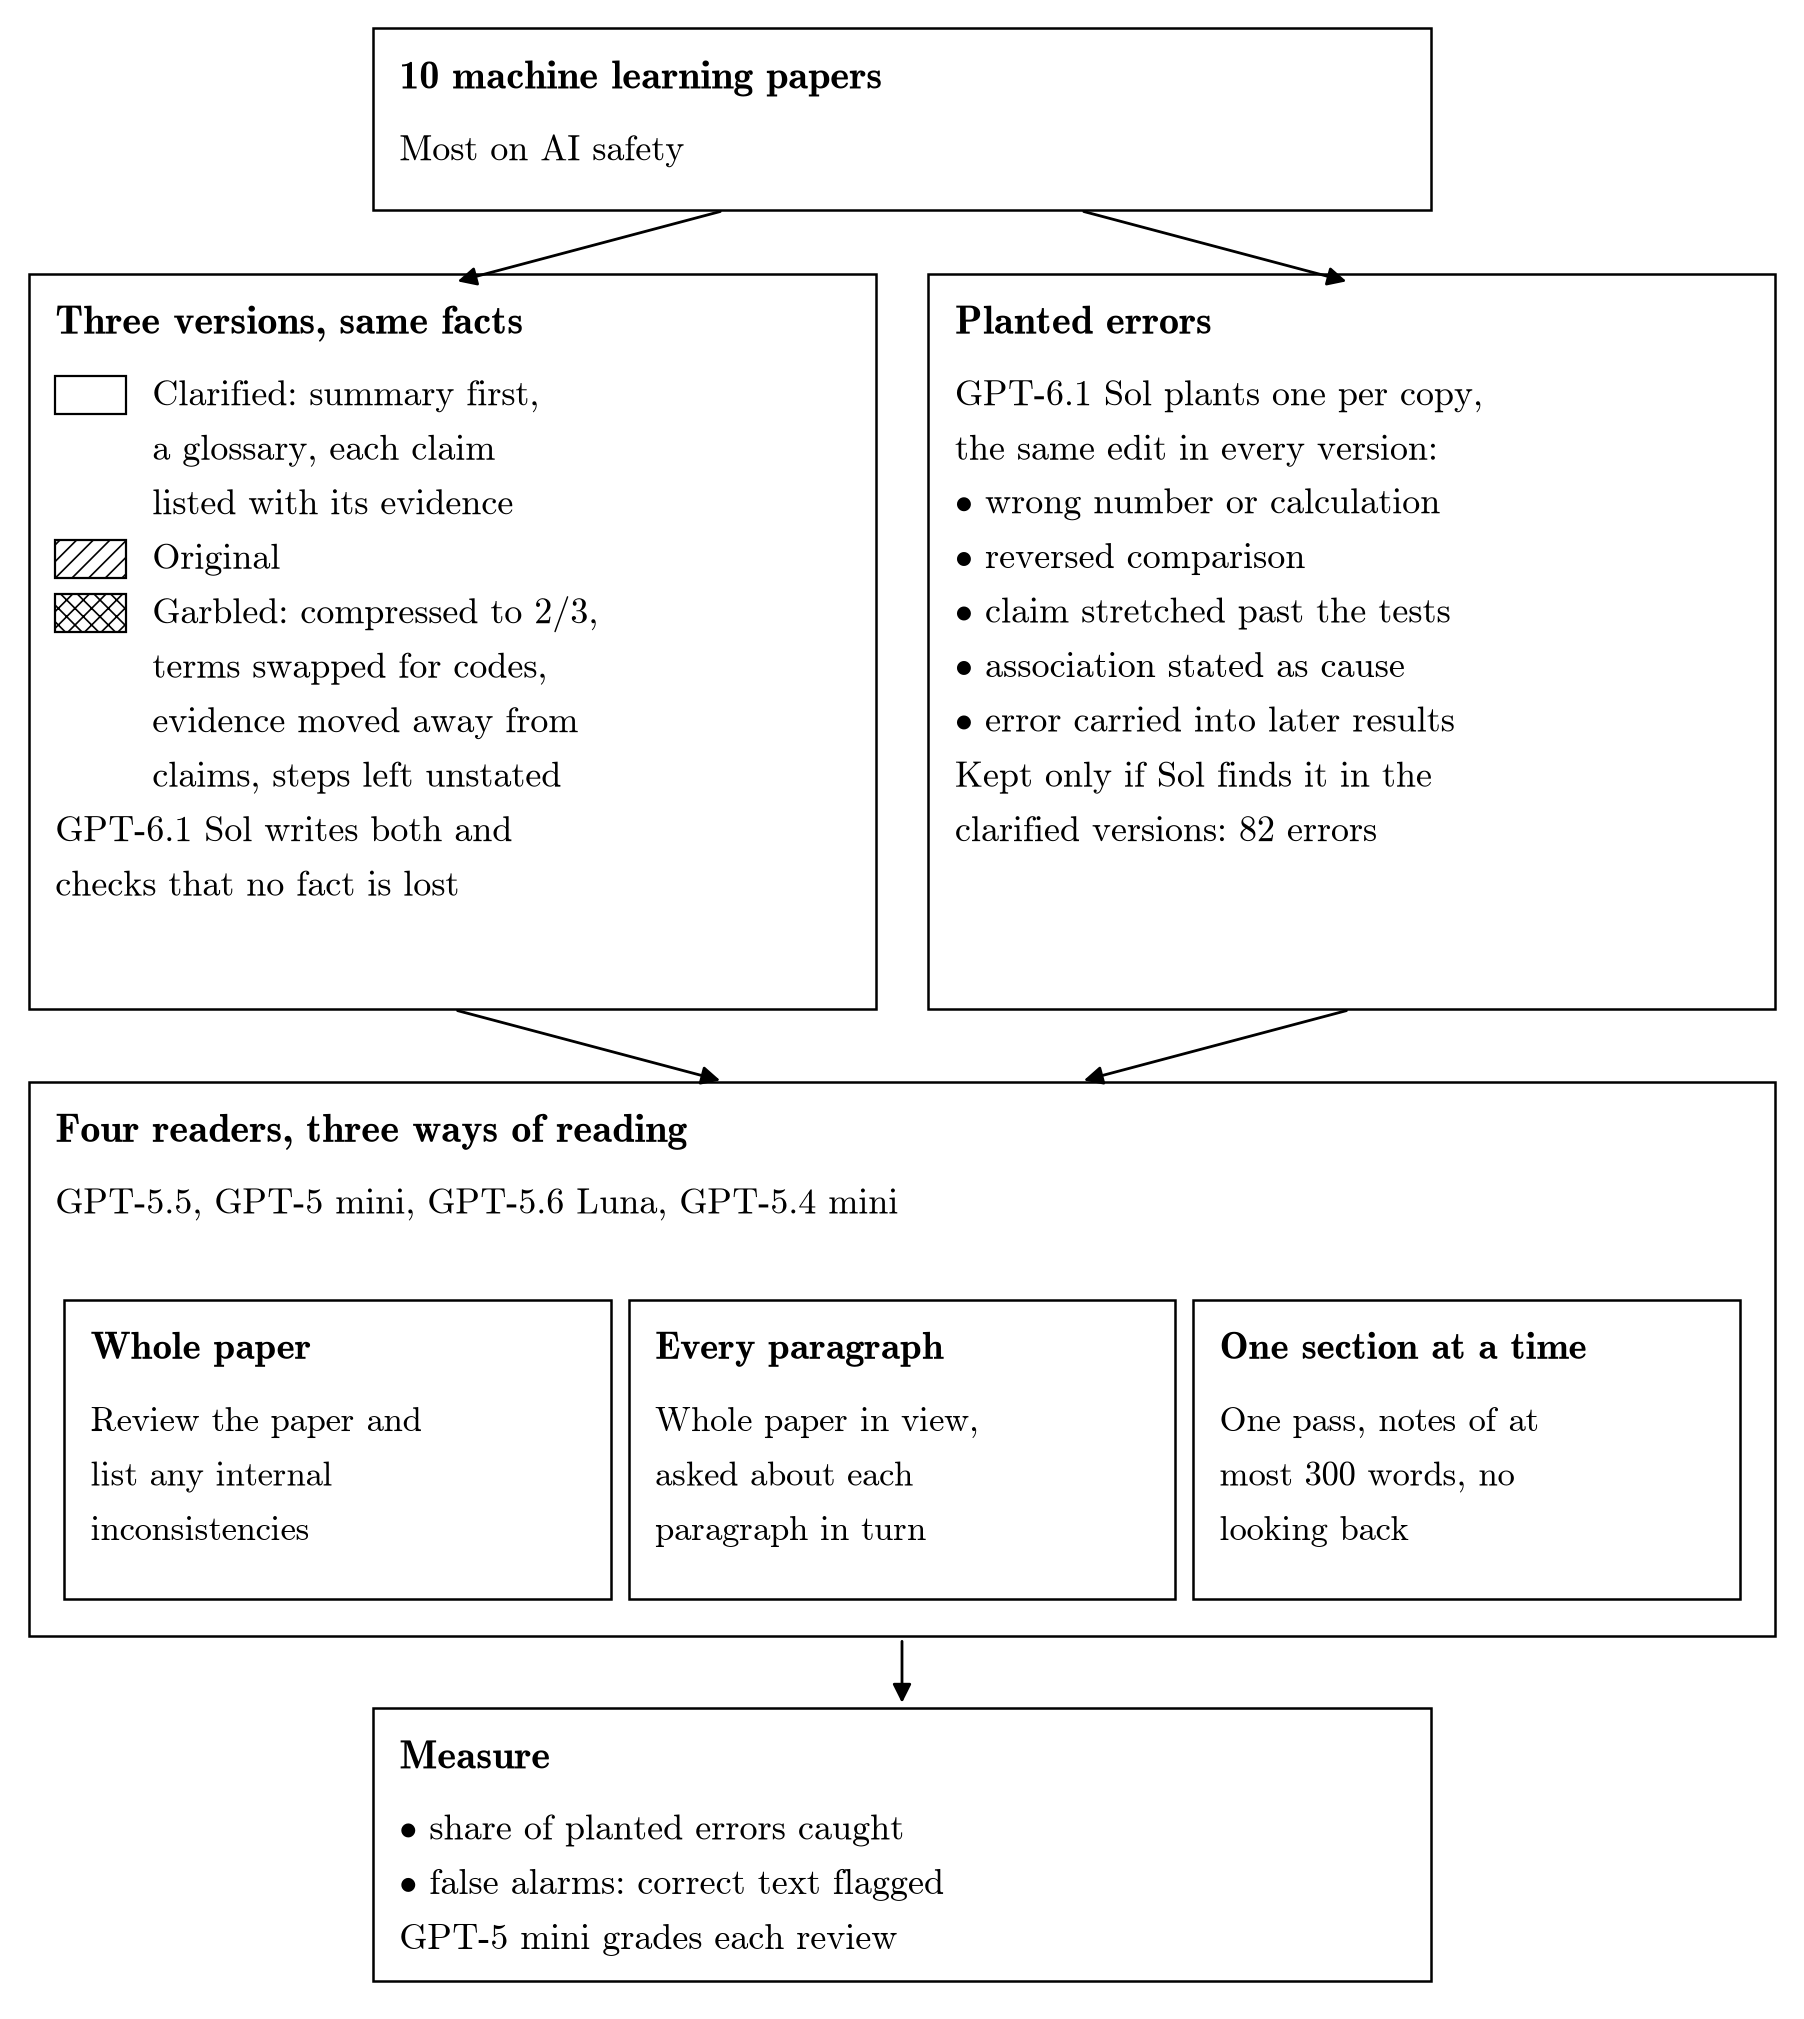
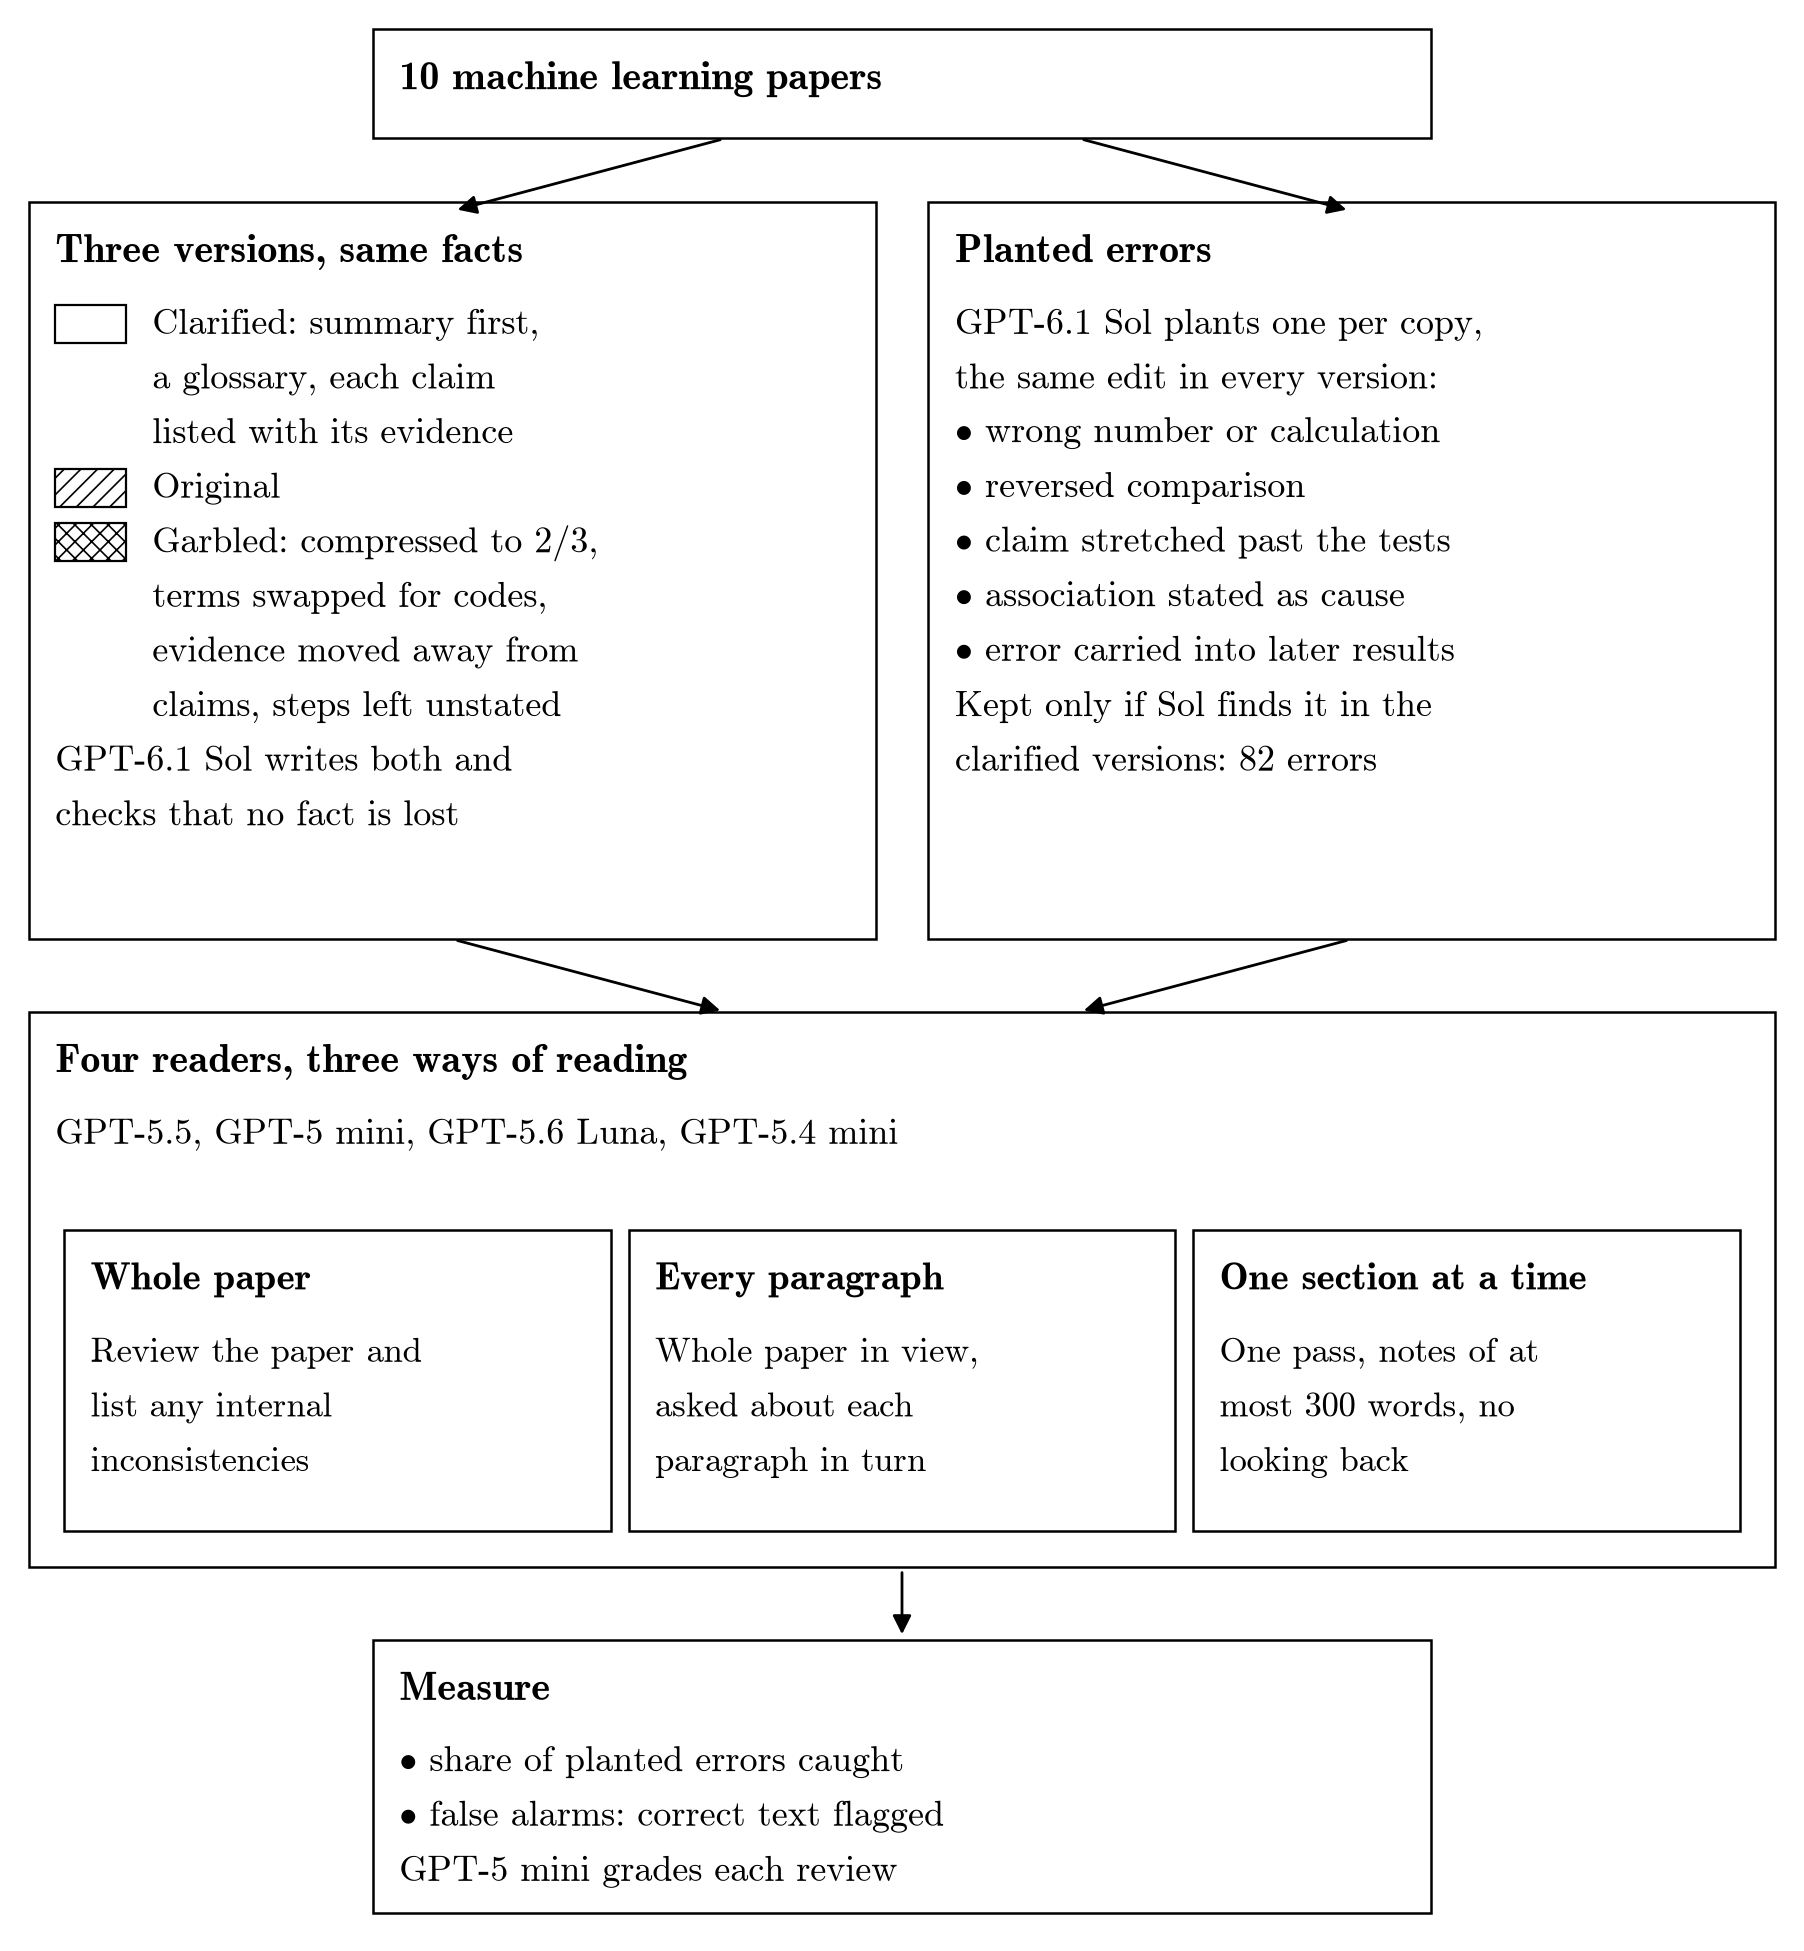
Part 2 setup figure: papers box without subtitle

diff --git a/scripts/blog_part2_setup.py b/scripts/blog_part2_setup.py
@@ -19,10 +19,10 @@ BULLET = r"$\bullet$ "
 
 
 def main():
-    fig, ax = plt.subplots(figsize=(9, 10.1))
+    fig, ax = plt.subplots(figsize=(9, 9.75))
     fig.patch.set_facecolor("white")
     ax.set_xlim(0, 20)
-    ax.set_ylim(3.7, 25.5)
+    ax.set_ylim(3.7, 24.7)
     ax.axis("off")
 
     def box(x, y, w, h, title, lines, swatches=None, fs=FS):
@@ -44,7 +44,7 @@ def main():
         ax.annotate("", xy=(x1, y1), xytext=(x0, y0),
                     arrowprops=dict(arrowstyle="-|>", color=INK, lw=1.0, mutation_scale=14))
 
-    box(4.0, 23.4, 12.0, 2.0, "10 machine learning papers", ["Most on AI safety"])
+    box(4.0, 23.4, 12.0, 1.2, "10 machine learning papers", [])
     box(0.1, 14.6, 9.6, 8.1, "Three versions, same facts",
         ["Clarified: summary first,", "a glossary, each claim", "listed with its evidence",
          "Original", "Garbled: compressed to 2/3,", "terms swapped for codes,", "evidence moved away from",
